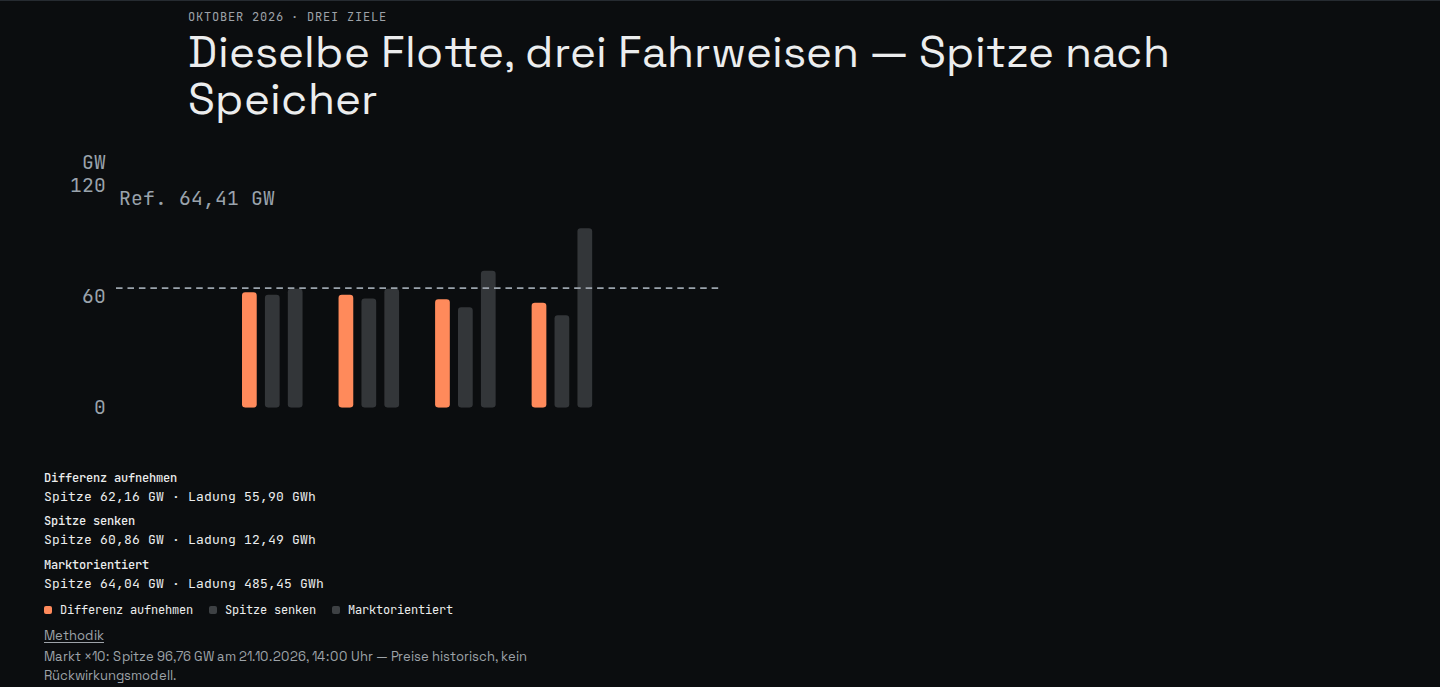
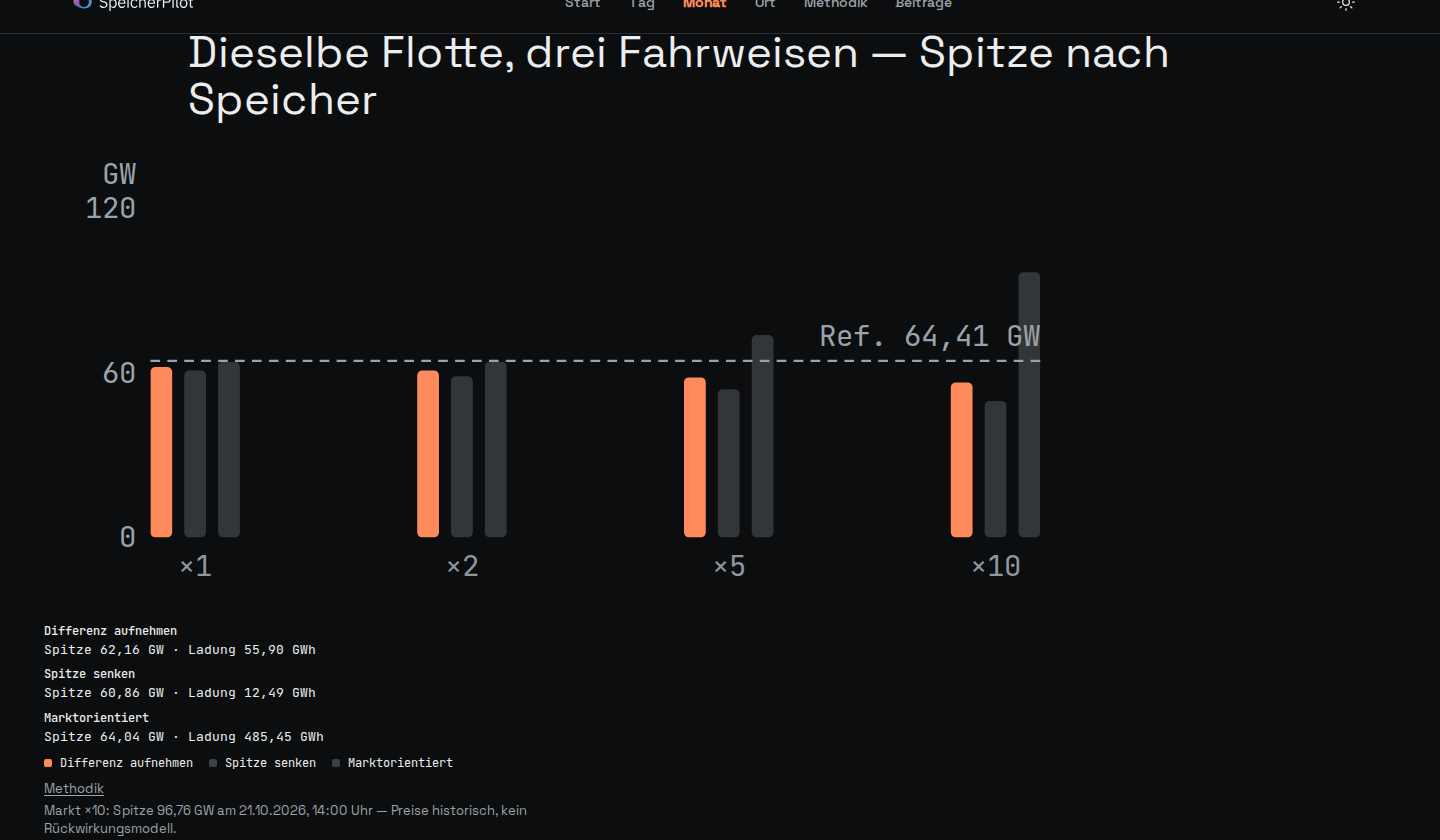
fix(paket3): Drei-Ziele volle Breite, Ref.-Label rechts, Ort-Umbruch
Spread bar groups across plot width; x-labels 12px under groups; reference
label at line end; flex-wrap on ÜNB link footnotes; refresh kontrolle crops.

diff --git a/components/home/NationalFleetThreeGoalsCompare.tsx b/components/home/NationalFleetThreeGoalsCompare.tsx
@@ -21,7 +21,7 @@ const PAD_T = 30;
 const PAD_B = 30;
 const BAR_W = 9;
 const BAR_GAP = 5;
-const GROUP_GAP = 22;
+const GROUP_GAP_MIN = 8;
 
 function fmtGw(gw: number): string {
   return formatQuantity(gw, "de", 2);
@@ -61,8 +61,11 @@ export function NationalFleetThreeGoalsCompare({
   const groupCount = NATIONAL_FLEET_FACTORS.length;
   const barsPerGroup = STRATEGY_ORDER.length;
   const groupInnerW = barsPerGroup * BAR_W + (barsPerGroup - 1) * BAR_GAP;
-  const totalGroupsW = groupCount * groupInnerW + (groupCount - 1) * GROUP_GAP;
-  const groupStartX = PAD_L + Math.max(0, (plotW - totalGroupsW) / 2);
+  const groupGap =
+    groupCount > 1
+      ? Math.max(GROUP_GAP_MIN, (plotW - groupCount * groupInnerW) / (groupCount - 1))
+      : 0;
+  const groupStartX = PAD_L;
 
   const ueX1 = model.rows.find((r) => r.strategy === "ueberschuss")!.cells.find((c) => c.factor === 1)!;
   const spX1 = model.rows.find((r) => r.strategy === "spitze")!.cells.find((c) => c.factor === 1)!;
@@ -113,17 +116,34 @@ export function NationalFleetThreeGoalsCompare({
               </clipPath>
             </defs>
             <line x1={PAD_L} y1={refY} x2={VIEW_W - PAD_R} y2={refY} className={styles.refLine} />
-            <text x={PAD_L + 2} y={PAD_T + 12} className={styles.refLabel} textAnchor="start">
+            <text
+              x={VIEW_W - PAD_R}
+              y={refY - 6}
+              className={styles.refLabel}
+              textAnchor="end"
+              dominantBaseline="auto"
+            >
               Ref. {fmtGw(model.refPeakGw)} GW
             </text>
+            {NATIONAL_FLEET_FACTORS.map((factor, gi) => {
+              const gx = groupStartX + gi * (groupInnerW + groupGap);
+              return (
+                <text
+                  key={`x-${factor}`}
+                  x={gx + groupInnerW / 2}
+                  y={PAD_T + plotH + 16}
+                  className={styles.xLabel}
+                  textAnchor="middle"
+                >
+                  ×{factor}
+                </text>
+              );
+            })}
             <g clipPath="url(#three-goals-plot-clip)">
             {NATIONAL_FLEET_FACTORS.map((factor, gi) => {
-              const gx = groupStartX + gi * (groupInnerW + GROUP_GAP);
+              const gx = groupStartX + gi * (groupInnerW + groupGap);
               return (
                 <g key={factor}>
-                  <text x={gx + groupInnerW / 2} y={VIEW_H - 6} className={styles.xLabel} textAnchor="middle">
-                    ×{factor}
-                  </text>
                   {STRATEGY_ORDER.map((strategy, si) => {
                     const row = model.rows.find((r) => r.strategy === strategy)!;
                     const cell = row.cells.find((c) => c.factor === factor)!;

diff --git a/lib/buildProvenance.generated.ts b/lib/buildProvenance.generated.ts
@@ -1,2 +1,2 @@
 /** Auto-generated by scripts/generate-build-provenance.mjs — do not edit */
-export const BUILD_PROVENANCE = {"commit":"ca40cf0886a033664a0395648ad11a045528f17f","buildId":"20261109T2245Z","builtAt":"2026-11-09T22:45:41.911Z","node":"v22.23.4","dirty":true,"dirtyPaths":["M app/globals.css"," M components/home/MonatPageV4.tsx"," M components/home/NationalFleetMonatSlot.tsx"," M components/home/NationalFleetMonthChapter.tsx"," M components/home/NationalFleetThreeGoalsCompare.module.css"," M components/home/NationalFleetThreeGoalsCompare.test.tsx"," M components/home/NationalFleetThreeGoalsCompare.tsx"," M components/site/OrtUnbHinweis.tsx"," M docs/audit-2026-11/paket3/screens/kontrolle/monat-2026-10-1440-dark-drei-ziele.png"," M docs/audit-2026-11/paket3/screens/kontrolle/monat-2026-10-390-light-erstes-fenster.png"," M docs/audit-2026-11/paket3/screens/kontrolle/ort-390-light-unb-hinweis.png"," M lib/nationalFleetThreeGoals.test.ts"," M lib/nationalFleetThreeGoals.ts"," M scripts/paket3-abnahme.mjs"],"ci":false} as const;
+export const BUILD_PROVENANCE = {"commit":"b3eca8e959ca41dd9f0774f3c098a0239867a9fe","buildId":"20261109T2248Z","builtAt":"2026-11-09T22:48:23.465Z","node":"v22.23.4","dirty":true,"dirtyPaths":["M app/globals.css"," M components/home/NationalFleetThreeGoalsCompare.module.css"," M components/home/NationalFleetThreeGoalsCompare.tsx"," M components/site/OrtUnbHinweis.tsx"],"ci":false} as const;

diff --git a/components/site/OrtUnbHinweis.tsx b/components/site/OrtUnbHinweis.tsx
@@ -11,7 +11,7 @@ export function OrtUnbHinweis() {
         Mittelspannung. SpeicherPilot baut keine Deutschlandkarte und erfindet keine Punktwerte.
       </p>
       <ul className="v4-ort-unb-links num">
-        <li>
+        <li className="v4-ort-unb-link-row">
           <a
             href="https://www.transnetbw.de/de/transparenz/netzzugang-und-entgelt/netzanschlusskarte"
             className="v4-text-link"
@@ -19,9 +19,9 @@ export function OrtUnbHinweis() {
           >
             TransnetBW Netzanschlusskarte
           </a>
-          <span className="v4-footnote"> (Stand 05/2026, 380-kV-Umspannwerke)</span>
+          <span className="v4-footnote v4-ort-unb-link-note">(Stand 05/2026, 380-kV-Umspannwerke)</span>
         </li>
-        <li>
+        <li className="v4-ort-unb-link-row">
           <a
             href="https://www.50hertz.com/de/Vertragspartner/Netzkunden/Netzanschluss"
             className="v4-text-link"
@@ -29,7 +29,7 @@ export function OrtUnbHinweis() {
           >
             50Hertz Netzanschluss
           </a>
-          <span className="v4-footnote"> (Regelzone mit Hamburg, Stand 31.03.2026)</span>
+          <span className="v4-footnote v4-ort-unb-link-note">(Regelzone mit Hamburg, Stand 31.03.2026)</span>
         </li>
       </ul>
       <p className="v4-footnote v4-ort-unb-foot">

diff --git a/components/home/NationalFleetThreeGoalsCompare.module.css b/components/home/NationalFleetThreeGoalsCompare.module.css
@@ -8,7 +8,7 @@
 
 .chartShell {
   width: 100%;
-  max-width: 720px;
+  max-width: none;
   min-height: 196px;
 }
 
@@ -19,12 +19,18 @@
 }
 
 .yTick,
-.xLabel,
 .refLabel,
 .yUnit {
   font-family: var(--font-jetbrains-mono, var(--font-mono));
   font-size: 12px;
   fill: var(--v4-muted);
+}
+
+.xLabel {
+  font-family: var(--font-jetbrains-mono, var(--font-mono));
+  font-size: 12px;
+  fill: var(--v4-muted);
+  opacity: 0.92;
 }
 
 .yUnit {

diff --git a/app/globals.css b/app/globals.css
@@ -10539,6 +10539,22 @@ html:not(.dark) .ort-v4-page .site-quiet {
   font-size: 13px;
   margin: 8px 0 0;
   padding-left: 1.1rem;
+  max-width: 100%;
+}
+
+.v4-ort-unb-link-row {
+  display: flex;
+  flex-wrap: wrap;
+  align-items: baseline;
+  gap: 0.15rem 0.35rem;
+  max-width: 100%;
+  margin-bottom: 0.35rem;
+}
+
+.v4-ort-unb-link-note {
+  flex: 1 1 12rem;
+  min-width: 0;
+  overflow-wrap: anywhere;
 }
 
 .v4-ort-unb-foot {
